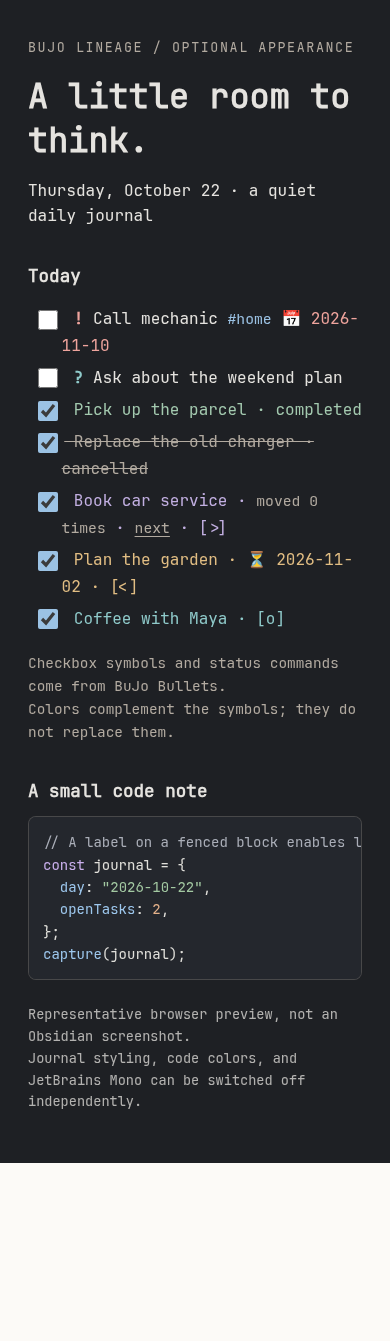
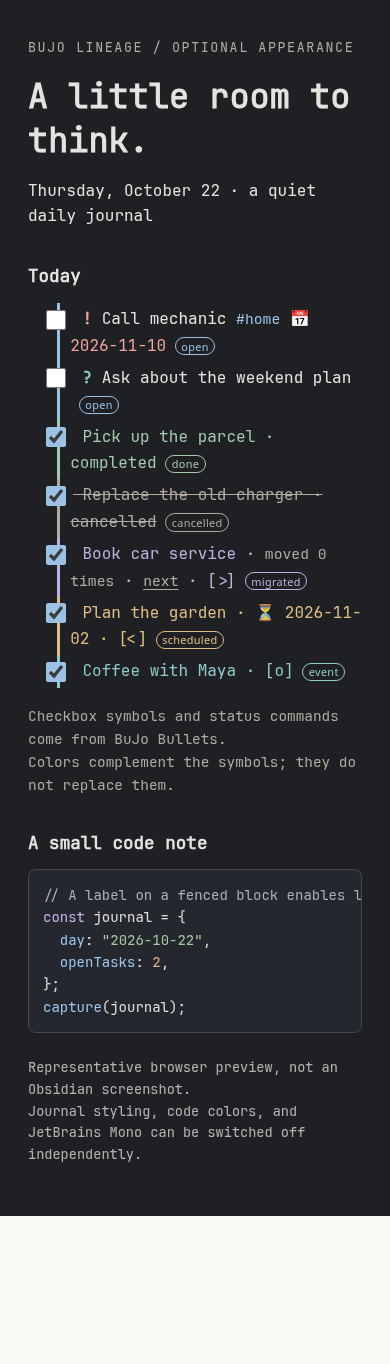
Make BuJo status indicators explicit in Live Preview and rendered notes

diff --git a/docs/appearance-preview.html b/docs/appearance-preview.html
@@ -6,13 +6,13 @@
 </style></head><body class="bujo-lineage-journal bujo-lineage-code bujo-lineage-mono"><main class="markdown-rendered">
 <header><small>BuJo Lineage / optional appearance</small><h1>A little room to think.</h1><p>Thursday, October 22 · a quiet daily journal</p></header>
 <h2>Today</h2><ul class="contains-task-list">
-<li class="task-list-item" data-task=" "><input class="task-list-item-checkbox" type="checkbox"> <span class="bujo-lineage-token bujo-lineage-priority">!</span> Call mechanic <a class="tag">#home</a> <span class="bujo-lineage-token bujo-lineage-due">📅 2026-11-10</span></li>
-<li class="task-list-item" data-task=" "><input class="task-list-item-checkbox" type="checkbox"> <span class="bujo-lineage-token bujo-lineage-question">?</span> Ask about the weekend plan</li>
-<li class="task-list-item" data-task="x"><input class="task-list-item-checkbox" type="checkbox" checked> Pick up the parcel · completed</li>
-<li class="task-list-item" data-task="-"><input class="task-list-item-checkbox" type="checkbox" checked> Replace the old charger · cancelled</li>
-<li class="task-list-item" data-task=">"><input class="task-list-item-checkbox" type="checkbox" checked> Book car service · <span class="bujo-lineage-token bujo-lineage-count">moved 0 times</span> · <a class="bujo-lineage-nav" href="#">next</a> · [>]</li>
-<li class="task-list-item" data-task="<"><input class="task-list-item-checkbox" type="checkbox" checked> Plan the garden · <span class="bujo-lineage-token bujo-lineage-scheduled">⏳ 2026-11-02</span> · [&lt;]</li>
-<li class="task-list-item" data-task="o"><input class="task-list-item-checkbox" type="checkbox" checked> Coffee with Maya · [o]</li>
+<li class="task-list-item bujo-lineage-task bujo-lineage-status-open" data-bujo-lineage-label="open" data-task=" "><input class="task-list-item-checkbox" type="checkbox"> <span class="bujo-lineage-token bujo-lineage-priority">!</span> Call mechanic <a class="tag">#home</a> <span class="bujo-lineage-token bujo-lineage-due">📅 2026-11-10</span></li>
+<li class="task-list-item bujo-lineage-task bujo-lineage-status-open" data-bujo-lineage-label="open" data-task=" "><input class="task-list-item-checkbox" type="checkbox"> <span class="bujo-lineage-token bujo-lineage-question">?</span> Ask about the weekend plan</li>
+<li class="task-list-item bujo-lineage-task bujo-lineage-status-done" data-bujo-lineage-label="done" data-task="x"><input class="task-list-item-checkbox" type="checkbox" checked> Pick up the parcel · completed</li>
+<li class="task-list-item bujo-lineage-task bujo-lineage-status-cancelled" data-bujo-lineage-label="cancelled" data-task="-"><input class="task-list-item-checkbox" type="checkbox" checked> Replace the old charger · cancelled</li>
+<li class="task-list-item bujo-lineage-task bujo-lineage-status-migrated" data-bujo-lineage-label="migrated" data-task=">"><input class="task-list-item-checkbox" type="checkbox" checked> Book car service · <span class="bujo-lineage-token bujo-lineage-count">moved 0 times</span> · <a class="bujo-lineage-nav" href="#">next</a> · [>]</li>
+<li class="task-list-item bujo-lineage-task bujo-lineage-status-scheduled" data-bujo-lineage-label="scheduled" data-task="<"><input class="task-list-item-checkbox" type="checkbox" checked> Plan the garden · <span class="bujo-lineage-token bujo-lineage-scheduled">⏳ 2026-11-02</span> · [&lt;]</li>
+<li class="task-list-item bujo-lineage-task bujo-lineage-status-event" data-bujo-lineage-label="event" data-task="o"><input class="task-list-item-checkbox" type="checkbox" checked> Coffee with Maya · [o]</li>
 </ul>
 <p class="legend">Checkbox symbols and status commands come from BuJo Bullets.<br>Colors complement the symbols; they do not replace them.</p>
 <h2>A small code note</h2>

diff --git a/styles.css b/styles.css
@@ -226,3 +226,44 @@ body.bujo-lineage-mono :is(.markdown-rendered, .markdown-source-view) {
 body.bujo-lineage-mono :is(.markdown-rendered code, .markdown-source-view .cm-scroller) {
   font-family: "JetBrains Mono", ui-monospace, monospace;
 }
+
+/* Explicit line decorations work even when Live Preview omits data-task on cm-line. */
+body.bujo-lineage-journal :is(.markdown-rendered, .markdown-source-view) {
+  --checkbox-color: var(--bl-open);
+  --checkbox-color-hover: var(--bl-open);
+  --checkbox-border-color: var(--bl-open);
+  --checkbox-border-color-hover: var(--bl-open);
+}
+body.bujo-lineage-journal .bujo-lineage-task {
+  --bl-status: var(--bl-open);
+  border-inline-start: 3px solid var(--bl-status);
+  padding-inline-start: 0.65em;
+}
+body.bujo-lineage-journal .bujo-lineage-status-done { --bl-status: var(--bl-done); color: var(--bl-done); }
+body.bujo-lineage-journal .bujo-lineage-status-cancelled { --bl-status: var(--bl-muted); color: var(--bl-muted); }
+body.bujo-lineage-journal .bujo-lineage-status-migrated { --bl-status: var(--bl-migrate); color: var(--bl-migrate); text-decoration: none; }
+body.bujo-lineage-journal .bujo-lineage-status-scheduled { --bl-status: var(--bl-schedule); color: var(--bl-schedule); text-decoration: none; }
+body.bujo-lineage-journal .bujo-lineage-status-event { --bl-status: var(--bl-event); color: var(--bl-event); text-decoration: none; }
+/* Obsidian sets explicit colors on completed inner spans, not only the task line. */
+body.bujo-lineage-journal .bujo-lineage-status-done :is(.cm-strikethrough, .cm-hmd-internal-link, a.internal-link) { color: var(--bl-done); }
+body.bujo-lineage-journal .bujo-lineage-task input.task-list-item-checkbox {
+  --checkbox-color: var(--bl-status);
+  --checkbox-border-color: var(--bl-status);
+  border-color: var(--bl-status);
+}
+/* Short labels are visual only. They never become Markdown or clipboard text. */
+body.bujo-lineage-journal .bujo-lineage-task::after {
+  content: attr(data-bujo-lineage-label);
+  display: inline-block;
+  color: var(--bl-status);
+  border: 1px solid currentColor;
+  border-radius: 999px;
+  font: 500 0.68em/1.4 var(--font-interface, system-ui, sans-serif);
+  letter-spacing: 0.03em;
+  margin-inline-start: 0.8em;
+  padding: 0.05em 0.5em;
+  vertical-align: middle;
+  text-decoration: none;
+}
+
+body.bujo-lineage-journal .bujo-lineage-status-open { color: var(--text-normal, inherit); }

diff --git a/tests/appearance-browser.ts b/tests/appearance-browser.ts
@@ -26,9 +26,12 @@ try {
   check(journalTokens('- [ ] ! Task <!-- ⏳ 2027-01-01 --> `📅 2027-01-02` ⏳ 2027-01-03').map(t=>t.kind).join(',')==='priority,scheduled','metadata and inline code excluded by tokenization');
   appearance.attach(document.body);appearance.apply({journalStyling:true,codeHighlighting:true});
   const editor=document.createElement('div');editor.className='markdown-source-view mod-cm6';root.append(editor);
-  const source='- [ ] ! Task ⏳ 2027-01-03\n\n```md\n- [ ] ! Example ⏳ 2027-01-03\n```';
+  const source='- [ ] ! Task ⏳ 2027-01-03\n- [x] Done\n- [-] Cancelled\n- [>] Moved\n- [<] Later\n- [o] Event\n\n```md\n- [ ] ! Example ⏳ 2027-01-03\n```';
   const view=new EditorView({state:EditorState.create({doc:source,extensions:[markdown(),journalHighlights]}),parent:editor});
   check(editor.querySelectorAll('.bujo-lineage-scheduled').length===1,'CodeMirror highlights task dates and excludes fenced examples');
+  check(editor.querySelectorAll('.bujo-lineage-task').length===6,'all six editor statuses receive explicit line decorations without host data-task attributes');
+  check(getComputedStyle(editor.querySelector('.bujo-lineage-status-open')!,'::after').content.includes('open'),'ordinary open tasks show a visible status label');
+  check(getComputedStyle(editor.querySelector('.bujo-lineage-status-done')!).borderInlineStartColor!==getComputedStyle(editor.querySelector('.bujo-lineage-status-migrated')!).borderInlineStartColor,'completed and migrated editor states have distinct colored markers');
   check(view.state.doc.toString()===source,'editor decorations never mutate Markdown');
   const before=getComputedStyle(root.querySelector('.bujo-lineage-scheduled')!).color;
   document.body.classList.add('theme-dark');const after=getComputedStyle(root.querySelector('.bujo-lineage-scheduled')!).color;

diff --git a/src/editor-highlights.ts b/src/editor-highlights.ts
@@ -8,8 +8,13 @@ function highlights(view:EditorView):DecorationSet {
   for(const visible of view.visibleRanges) {
     for(let pos=visible.from;pos<=visible.to;) {
       const line=view.state.doc.lineAt(pos);
-      if(!seen.has(line.number) && /^\s*(?:[-+*]|\d+[.)]) \[.\] /.test(line.text)) {
+      const match=line.text.match(/^\s*(?:[-+*]|\d+[.)]) \[(.)\] /);
+      let context=syntaxTree(view.state).resolveInner(line.from+(match?.[0].length || 0),1);let isCode=false;
+      for(;;) {if(/code|comment|frontmatter/i.test(context.name))isCode=true;if(!context.parent)break;context=context.parent;}
+      if(!seen.has(line.number) && match && !isCode) {
         seen.add(line.number);
+        const status=({ ' ':'open', x:'done', '-':'cancelled', '>':'migrated', '<':'scheduled', o:'event' } as Record<string,string>)[match[1]];
+        if(status) ranges.push(Decoration.line({attributes:{class:'bujo-lineage-task bujo-lineage-status-'+status,'data-bujo-lineage-label':status}}).range(line.from));
         for(const token of journalTokens(line.text)) {
           const from=line.from+token.from,to=line.from+token.to;
           let node=syntaxTree(view.state).resolveInner(from,1);let code=false;

diff --git a/src/appearance.ts b/src/appearance.ts
@@ -37,6 +37,8 @@ export function journalTokens(text:string):Token[] {
 export function decorateJournal(element:HTMLElement):void {
   const doc=element.ownerDocument;
   for(const task of Array.from(element.querySelectorAll<HTMLElement>('.task-list-item'))) {
+    const status=({ '':'open', ' ':'open', x:'done', '-':'cancelled', '>':'migrated', '<':'scheduled', o:'event' } as Record<string,string>)[task.dataset.task || ''];
+    if(status) {task.classList.add('bujo-lineage-task','bujo-lineage-status-'+status);task.dataset.bujoLineageLabel=status;}
     const walker=doc.createTreeWalker(task,4 /* SHOW_TEXT */); const nodes:Text[]=[];
     let node:Node|null;
     while((node=walker.nextNode())) {

diff --git a/README.md b/README.md
@@ -10,11 +10,11 @@ Repository: [solidline/bujo-lineage](https://github.com/solidline/bujo-lineage).
 
 With [BRAT](https://github.com/TfTHacker/obsidian42-brat) installed, run **BRAT: Add a beta plugin for testing**, enter `solidline/bujo-lineage`, and add it. Keep **BuJo Bullets** enabled and enable **BuJo Lineage** alongside it in Community plugins. BRAT is an optional installer/updater, not a runtime dependency.
 
-For manual installation, download `bujo-lineage-0.3.1.zip` from the [latest release](https://github.com/solidline/bujo-lineage/releases/latest) and follow the folder instructions below. The release also includes direct `main.js`, `manifest.json`, and `styles.css` assets for Obsidian installers. This add-on has not been submitted to Obsidian's community plugin directory.
+For manual installation, download `bujo-lineage-0.3.2.zip` from the [latest release](https://github.com/solidline/bujo-lineage/releases/latest) and follow the folder instructions below. The release also includes direct `main.js`, `manifest.json`, and `styles.css` assets for Obsidian installers. This add-on has not been submitted to Obsidian's community plugin directory.
 
 ## Install the built version
 
-1. Download and extract `bujo-lineage-0.3.1.zip`, or copy `dist/bujo-lineage/` from this repository.
+1. Download and extract `bujo-lineage-0.3.2.zip`, or copy `dist/bujo-lineage/` from this repository.
 2. Put its folder at `<vault>/.obsidian/plugins/bujo-lineage/`. That folder must directly contain `main.js`, `manifest.json`, `styles.css`, and the license files, with no extra nested folder.
 3. **Keep the original BuJo Bullets plugin enabled.** It provides checkbox styles, configurable signifiers, and manual status commands. BuJo Lineage adds migration, scheduling, history, and recovery plus optional appearance; it does not duplicate status commands or replace BuJo symbols.
 4. Reload Obsidian, open Settings → Community plugins, and enable **BuJo Lineage**. Requires Obsidian 1.8.0 or later. Use a disposable vault first.
@@ -193,3 +193,7 @@ Architecture: `lineage.ts` owns pure parsing/metadata/planning, the testable sto
 Deferred: bulk migration, automatic daily rollover, heading/template placement, calendars, dashboards, dependency-safe transfer, same-note migrations, recurrence transfer and automatic conflict merging. Very large vaults can make explicit rebuilds slower; no background service is involved.
 
 JetBrains Mono is copyright The JetBrains Mono Project Authors and is bundled unmodified under the SIL Open Font License 1.1. See [font attribution and license](docs/fonts/OFL.txt). Its font data and license are embedded in styles.css for BRAT installations; no remote font service is used.
+
+### Seeing only standard checkboxes?
+
+Update to 0.3.2 or newer through BRAT, reload Obsidian, and enable **BuJo journal styling** in BuJo Lineage settings. Tasks now have explicit colored side markers and short open/done/cancelled/migrated/scheduled/event labels in the editor and rendered notes. Live Preview no longer needs a data-task attribute on the task line for these styles. Keep BuJo Bullets enabled for its custom checkbox symbols. Migration counts and previous/next links are created by transferring a task; they do not appear automatically on ordinary capture tasks.

diff --git a/docs/RELEASE-NOTES.md b/docs/RELEASE-NOTES.md
@@ -1,9 +1,7 @@
-BuJo Lineage 0.3.1 adds **Prefer JetBrains Mono** under Settings → BuJo Lineage → Appearance.
+BuJo Lineage 0.3.2 makes task styling visible in Live Preview even when Obsidian does not put data-task on the task line.
 
-The preference is enabled by default and applies to note text and code, independently of the journal and code color toggles. Disable it to restore your theme's fonts. Workspace navigation and UI fonts stay unchanged.
+With BuJo journal styling enabled, tasks now get colored side markers and short open/done/cancelled/migrated/scheduled/event labels. Checkbox theme variables and completed inner-text colors are styled explicitly. The editor supplies status decorations directly rather than relying on host attributes. Markdown, task identities, checkbox behavior, and clipboard text are unchanged.
 
-JetBrains Mono Regular is bundled locally, unmodified, under its SIL Open Font License 1.1. The font and license are embedded in styles.css so BRAT installs need no extra asset, separate font installation, network request, or font service. This includes iPhone use; actual iPhone font rendering still needs a device check.
+Update through BRAT, reload Obsidian, and check Settings → BuJo Lineage → Appearance → BuJo journal styling. Keep BuJo Bullets enabled for custom checkbox symbols. Migration counts and history links appear when you transfer tasks, not on ordinary capture tasks. JetBrains Mono and code highlighting remain independent preferences.
 
-Update through BRAT using solidline/bujo-lineage. Keep BuJo Bullets enabled alongside BuJo Lineage. The plugin ID and history schema are unchanged. Nothing is submitted to Obsidian's community plugin directory.
-
-Validation: 22 core/adapter tests and 25 browser checks pass, including bundled font loading, font toggle independence, CodeMirror fonts, theme font restoration, and unload cleanup. Build, lint, and type checking passed. Live Obsidian/iPhone and Tasks behavior remain untested.
+22 core/adapter tests and 28 Chromium browser checks pass, plus build, lint, and type checking. The new checks cover all six editor statuses without host data-task attributes and visible labels/colored markers. Live Obsidian and iPhone rendering remain unverified.

diff --git a/docs/VALIDATION.md b/docs/VALIDATION.md
@@ -25,3 +25,5 @@ Version 0.2.0 add-on check: actual plugin entrypoint registers only migrate, sch
 Version 0.3.0: `npm run test:appearance` passed **20 headless Chromium checks** at 390×844 with touch emulation. They cover independent toggles, popout/unload cleanup, preserving text/checkbox/link DOM and click handlers, repeat rendering, nested tasks, code/metadata exclusions, real CodeMirror Markdown fenced-code exclusion, light/dark palette changes, scrollable code at phone width, 44px touch checkbox targets, and restoring theme layout when disabled. Browser fixtures and representative preview screenshots are not live Obsidian or iPhone tests.
 
 Version 0.3.1: the browser suite now passes **25 checks**, including bundled JetBrains Mono loading, font preference independent of color toggles, CodeMirror font application, restoring the theme font, and unloading the font class. Real iPhone font rendering remains untested.
+
+Version 0.3.2: 28 Chromium checks pass, including all six explicit editor-line status decorations without host data-task attributes, visible open labels, and distinct done/migrated side markers. This tests the reported selector mismatch using real CodeMirror fixtures, not a live Obsidian app.
